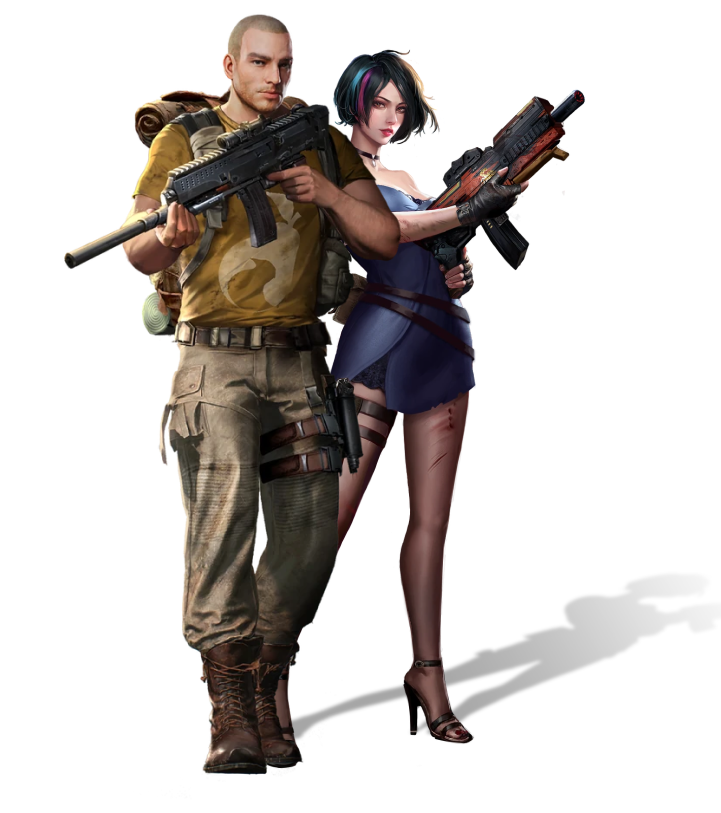
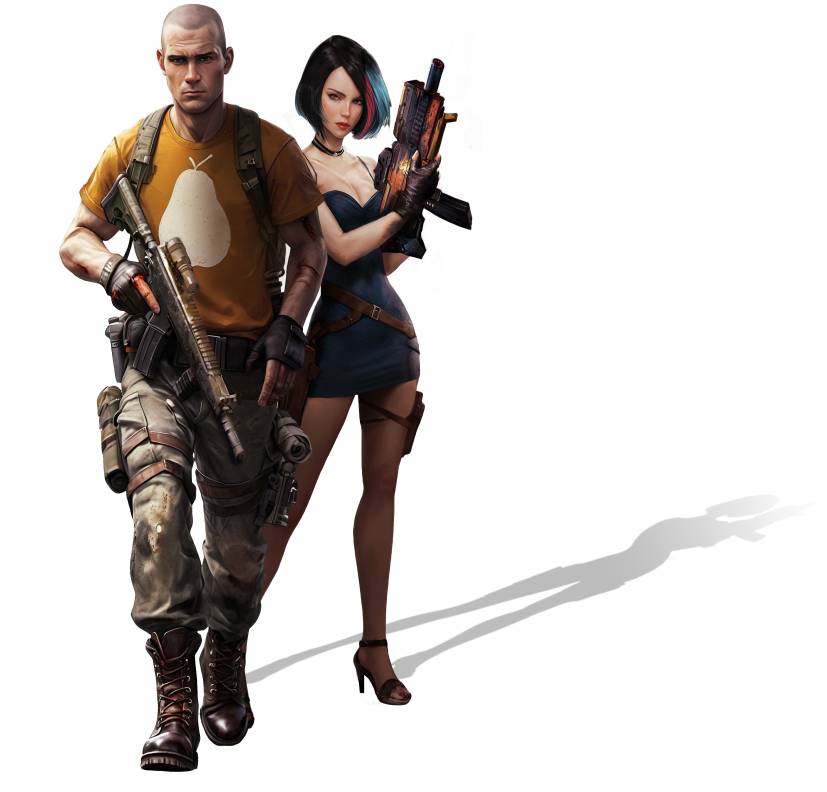
add header for mobile

diff --git a/game-bot/src/components/HeaderContent/HeaderContent.css b/game-bot/src/components/HeaderContent/HeaderContent.css
@@ -1,6 +1,6 @@
 .header_content {
     width: 100%;
-    min-height: 1015px;
+    height: 31vh;
     display: flex;
     position: relative;
     z-index: 1;
@@ -59,7 +59,7 @@
     background-size: contain;
     background-repeat: no-repeat;
     width: 100vw;
-    height: 28vh;
+    height: 29vh;
     position: absolute;
     top: -42%;
     left: -12%;
@@ -81,14 +81,103 @@
 
 .img-area {
     max-width: 790px;
-    max-height: 812px;
-    margin-top: 169px;
+    max-height: 790px;
+    margin-top: 170px;
     margin-left: 1%;
 }
 
 .hero-img {
     height: 100%;
 }
+
+@media (max-width:376px) {
+    .header_content {
+        height: 780px;
+        flex-direction: column;
+    }
+
+    .layout {
+        display: none;
+    }
+
+    .back-circles {
+        background: url(../../images/back-circles-mob.png);
+        background-repeat: no-repeat;
+        background-size: contain;
+        background-position: center;
+        width: 100vw;
+        height: 32vh;
+        position: absolute;
+        top: 47%;
+        left: 0%;
+        z-index: -1;
+    } 
+
+    .header-text-area {
+        margin: 0;
+        padding: 120px 26px 0;
+        align-items: center;
+        gap: 19px;
+    }
+
+    .header-title {
+        font-size: 28px;
+        width: 323px;
+        text-align: center;
+    }
+
+    .header-title::before {
+        content: '';
+        background-image: url(../../images/arrow-header-mob.png);
+        width: 23vw;
+        height: 23vh;
+        top: -74%;
+        left: 4%;
+    }
+
+    .header-text {
+        max-width: 343px;
+        font-size: 13px;
+        text-align: center;
+    }
+
+    .arrow-text {
+        position: relative;
+    }
+
+    .arrow-text::after {
+        content: '';
+        background-image: url(../../images/text-header-mob.png);
+        background-size: contain;
+        background-repeat: no-repeat;
+        width: 22vw;
+        height: 22vh;
+        position: absolute;
+        top: -64%;
+        left: 82%;
+        z-index: -1;
+        pointer-events: none; /* Это предотвратит блокирование кликов */
+    }
+
+    .title-line {
+        width: 0;
+    }
+
+    .img-area {
+        width: 100%;
+        max-height: 400px;
+        margin-top: 29px;
+        margin-left: 0;
+    }
+
+    .hero-img {
+        width: 592px;
+        height: 567px;
+    }
+}
+
+
+
 
 @media (min-width:1440px) and (max-width:1699px) {
     .header_content {
@@ -138,6 +227,10 @@
         top: 15%;
     }
 
+    .img-area {
+        margin-left: 2%;
+    }
+
 }
 
 @media ((min-width: 2300px)) {
@@ -148,6 +241,10 @@
 
     .layout {
         top: 43%;
+    }
+
+    .header-title::before {
+        height: 31vh;
     }
     
 }
@@ -166,17 +263,27 @@
         left: 10%;
     }
         
+    .img-area {
+        margin-left: 0;
+    }
+    .header-title::before {
+        height: 34vh;
+    }
 }
 
-@media ((min-width: 3150px)) {
+@media ((min-width: 3100px)) {
     .back-circles {
         width: 100vw;
         height: 35vh;
         left: 3%;
     }
+
+    .header-title {
+        font-size: 64px;
+    }
         
     .header-title::before {
-        height: 36vh;
+        height: 37vh;
         top: -80%;
     }
 }

diff --git a/game-bot/src/components/HeaderContent/HeaderContent.js b/game-bot/src/components/HeaderContent/HeaderContent.js
@@ -9,10 +9,14 @@ export const HeaderContent = ({ language }) => {
 			<div className="layout"></div>
 			<div className="back-circles"></div>
 			<div className="header-text-area">
-				<h1 className="header-title">{headerText[language].title}</h1>
+				<h1 className="header-title">
+					{headerText[language].title1}
+					<br />
+					{headerText[language].title2}
+				</h1>
 				<div className="title-line"></div>
 				<p className="header-text">{headerText[language].text1}</p>
-				<p className="header-text">{headerText[language].text2}</p>
+				<p className="header-text arrow-text">{headerText[language].text2}</p>
 				<ButtonsArea language={language} />
 			</div>
 			<div className="img-area">

diff --git a/game-bot/src/components/ButtonsArea/ButtonsArea.css b/game-bot/src/components/ButtonsArea/ButtonsArea.css
@@ -23,6 +23,7 @@
 .button-video {
     background-color: #211F1F;
     padding: 22px 18px;
+    border: solid 1px white;
 }
 
 .button-buy {
@@ -30,3 +31,29 @@
     border: none;
     padding: 22px 34px;
     }
+
+@media (max-width:376px) {
+    .buttons_area {
+        flex-direction: column;
+        gap: 20px;
+        margin-top: 30px;
+    }
+
+    .button {
+        width: 200px;
+        height: 48px;
+        font-size: 13px;
+    }
+
+    .button-video {
+        background-color: #211F1F;
+        padding: 15px 12.5px;
+        border: solid 1px white;
+    }
+    
+    .button-buy {
+        background-color: #E76F04;
+        border: none;
+        padding: 15px 23px;
+        }
+}

diff --git a/game-bot/src/components/HeaderContent/headerText.js b/game-bot/src/components/HeaderContent/headerText.js
@@ -1,11 +1,13 @@
 export const headerText = {
 	ru: {
-		title: 'Бот для Puzzles & Survival',
+		title1: 'Бот для',
+		title2: 'Puzzles & Survival',
 		text1: 'Искусственный интеллект для автоматизации рутинных действий и эффективного сбора ресурсов',
 		text2: 'Управление через Telegram без установки дополнительных программ',
 	},
 	en: {
-		title: 'Bot for Puzzles & Survival',
+		title1: 'Bot for',
+		title2: 'Puzzles & Survival',
 		text1: 'Main text about bot',
 		text2: '',
 	},

diff --git a/game-bot/src/components/LanguageDropdown/LanguageDropdown.css b/game-bot/src/components/LanguageDropdown/LanguageDropdown.css
@@ -60,3 +60,35 @@
 .selected {
     background-color: #211F1F;
 }
+
+@media (max-width:376px) {
+    .selected-language {
+        gap: 5px;
+        padding: 5px;
+        border-radius: 4px;
+        min-width: 66px;
+        min-height: 36px;
+    }
+
+    .flag-icon {
+        width: 20px;
+        height: 14px;
+    }
+
+    .language-name {
+        font-size: 12px;
+    }
+
+    .arrow {
+        font-size: 12px; /* размер стрелки */
+    }
+
+    .dropdown-menu {
+        width: 66px;
+    }
+
+    .dropdown-item {
+        gap: 5px;
+        font-size: 12px;
+    }
+}

diff --git a/game-bot/src/components/HeaderMenu/HeaderMenu.css b/game-bot/src/components/HeaderMenu/HeaderMenu.css
@@ -62,6 +62,25 @@ html {
     position: relative;
 }
 
+@media (max-width:376px) {
+    .header-container {
+        padding: 20px;
+        gap: 10px;
+    }
+
+    .header-logo {
+        font-size: 24px;
+    }
+
+    .menu-list {
+        display: flex;
+        flex-direction: column;
+        gap: 5px;
+        font-size: 12px;
+        margin-left: 0;
+    }
+}
+
 @media (min-width:1440px) and (max-width:1699px) {
     .header-container {
         padding: 40px 300px;
